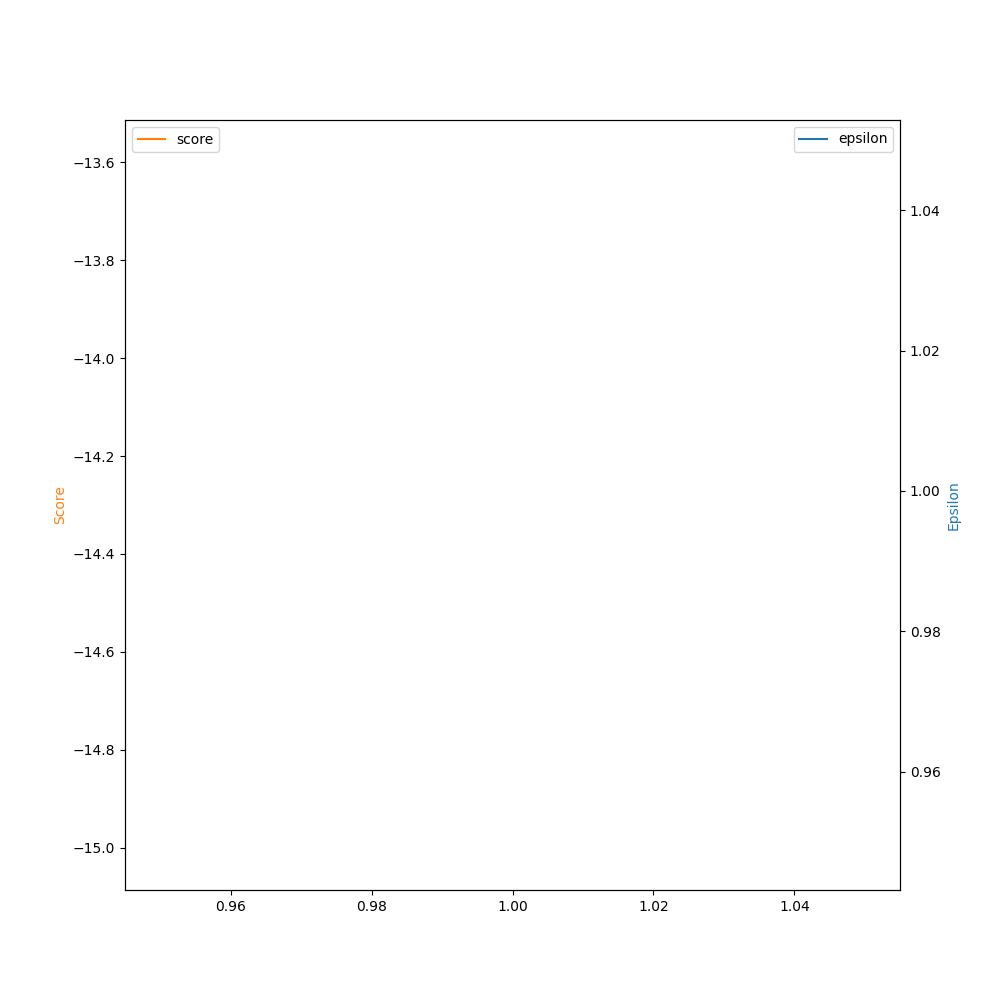
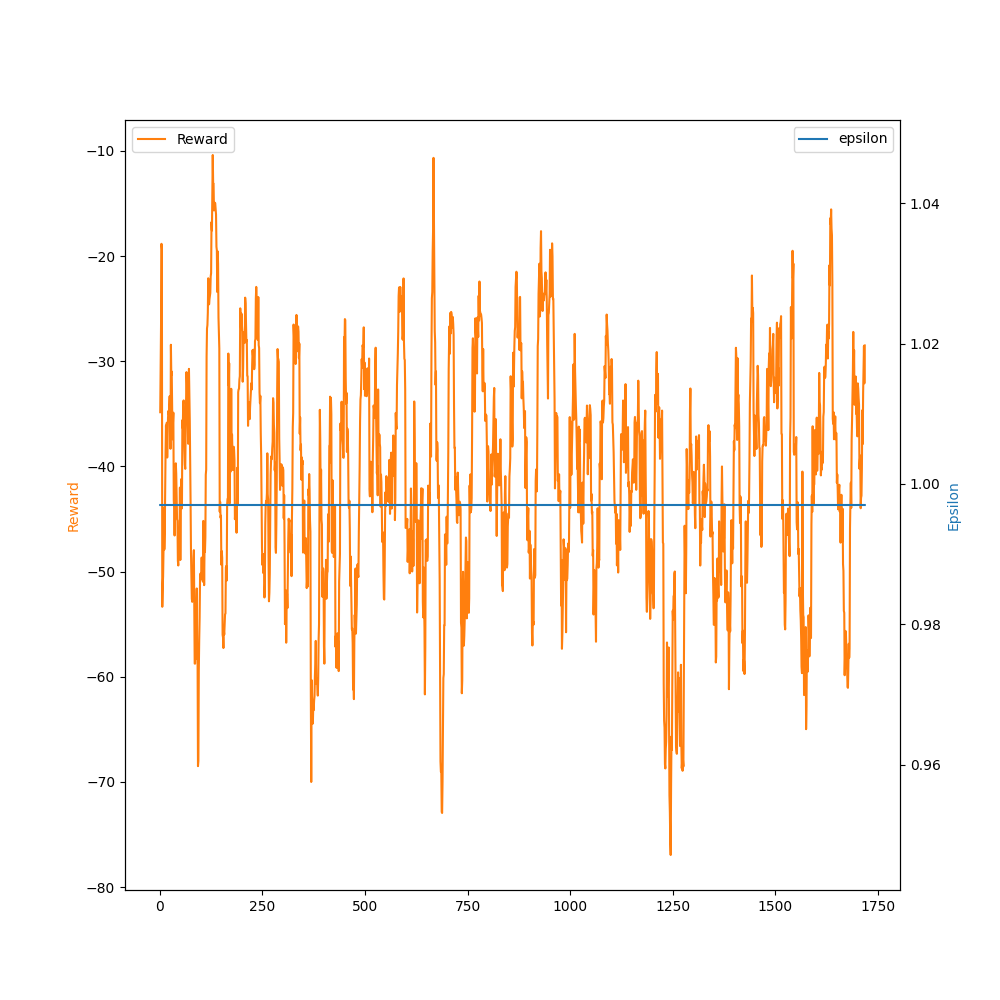
ugh its worse now

diff --git a/Agent/agent.py b/Agent/agent.py
@@ -12,68 +12,51 @@ class DQN(nn.Module):
     def __init__(self, state_size,action_size):
         super(DQN, self).__init__()
         self.device = T.device("cuda" if T.cuda.is_available() else "cpu")
-        
         self.layer1 = nn.Linear(state_size, 32)
-        # 128 out to 32
         self.layer2 = nn.Linear(32, 64)
         self.layer3 = nn.Linear(64, 16)
-        # add softmax
         self.layer4 = nn.Linear(16, action_size)
 
-    
     def forward(self, x):
         x=x.float()
-        
         x=x.to(self.device)
-        
         x = F.relu(self.layer1(x))
         x = F.relu(self.layer2(x))
         x = F.relu(self.layer3(x))
-        # x = F.softmax(self.layer4(x))
-        # add softmax for output
         return self.layer4(x)
-        # return x
-
-
 
  
 class Agent:
     def __init__(self,state_size,action_size) -> None:
         self.state_size = state_size
         self.action_size = action_size
-        
-        self.memory= deque(maxlen=2000)
-        
+        self.memory= deque(maxlen=20000)
         self.gamma = 0.95
-        self.epsilon = .998
-        self.epsilon_max = .998
+        self.epsilon = .997
+        self.epsilon_max = .997
         self.decay = 0.995
-        self.epsilon_min=0.01
+        self.epsilon_min=0.05
         self.learning_rate=0.001
+        
         self.device = T.device("cuda" if T.cuda.is_available() else "cpu")
-        
         self.policy_net = DQN(self.state_size,self.action_size).to(self.device)
-        # print(self.policy_net)
-        # self.target_net = DQN(self.state_size,self.action_size).to(self.device)
-        
-             
+            
     def remember(self,state,action,reward,next_state,done):
         self.memory.append((state,action,reward,next_state,done))
 
     def act(self,state):
         rando=np.random.rand()
         if  rando < self.epsilon:
-            # print(self.epsilon)
             act=np.random.randint(0,high=self.action_size-1)
             return act
-        act_values = self.policy_net(state)
-        # q-val
-        act=T.argmax(act_values)
-        return act
+        else:
+            act_values = self.policy_net(state)
+            act=T.argmax(act_values)
+            return act
 
 
     def replay(self,batch_size):
-        T.cuda.empty_cache()
+        # T.cuda.empty_cache()
         minibatch=random.sample(self.memory,batch_size)
         
         for state,action,reward,new_state,done in minibatch:
@@ -88,16 +71,18 @@ class Agent:
                 #get estimated rewards for next step
                 est=self.policy_net(new_state).to(self.device)#rename these
                 # replace estimated reward for action with reward plus gamma version of the estimate
-                adjusted_reward = (reward + self.gamma * T.argmax(est))# max not argmax
-                # update estimated actin reward 
-                est[action]=adjusted_reward
+                adjusted_reward = (reward + self.gamma * T.max(est))# max not argmax
+                # update estimated act in reward 
+                adjusted_est=est.detach().clone()
+                adjusted_est[action]=adjusted_reward
                 
-                est=est.float()
+                adjusted_est=adjusted_est.float()
                 # get the current policy ----- use label 
                 policy=self.policy_net(state).to(self.device)
                 # update with actual
-                policy[action]=adjusted_reward
-                t=policy
+                updated_policy=policy.detach().clone()
+                updated_policy[action]=adjusted_reward
+                t=updated_policy
                 t=t.float()
                 
             else:
@@ -109,13 +94,14 @@ class Agent:
                 reward=reward.to(self.device)
                 policy=self.policy_net(state).to(self.device)
                 # so update the policy with the actual reward
-                policy[action]=reward
-                t=policy
+                updated_policy=policy.detach().clone()
+                updated_policy[action]=reward
+                t=updated_policy
                 t=t.float()
                
              
             
-            # confirm this is how to train in pytorch
+            
             # self.loss =  nn.MSELoss()
             # self.loss = nn.CrossEntropyLoss()
             # self.loss = nn.BCEWithLogitsLoss()
@@ -129,14 +115,10 @@ class Agent:
             output=self.loss(est,t)
             
             self.optimizer.zero_grad()
-            output.backward()
+            output.backward(retain_graph=True)
             self.optimizer.step()
             
-            T.cuda.empty_cache()
-            
-            params = list(self.policy_net.parameters())
-            # print(len(params))
-            # print(params[0].size())
+            # T.cuda.empty_cache()
     
     
     def epsilon_decay(self):   
@@ -147,11 +129,12 @@ class Agent:
     def epsilon_decay_2(self,episode,episodes):   
         if self.epsilon > self.epsilon_min:
             
-            if (episode > (5/10 * episodes) ):           
+            if (episode > (4/10 * episodes) ):           
                 self.epsilon *= self.decay
             
             else:
-                self.epsilon= self.epsilon_max-1.01**(10*episode-((5.4/10 * episodes)*10))
-                
+                self.epsilon= self.epsilon_max-1.01**(10*episode-((4.4/10 * episodes)*10))
+        else:
+            self.epsilon=self.epsilon       
         pass
     

diff --git a/Env/env.py b/Env/env.py
@@ -28,11 +28,9 @@ class Basic():
     CONNECTION_LABEL = 0
 
     def __init__(self, net_file: str,
-                 route_file: str,
-                 use_gui: bool = False,
-                 steps_per_episode: int = 5000,
+                 route_file: str,gui
                  ) -> None:
-        self.steps_per_episode = steps_per_episode
+        self.steps_per_episode = 2000
         self.episode_count = 0
         self.episode_step = 0
         self.action = 0
@@ -50,7 +48,7 @@ class Basic():
         self._net = net_file
         self._route = route_file
 
-        self.use_gui = use_gui
+        self.use_gui = gui
         self.speed = None
         self.render_mode = None
 
@@ -62,19 +60,22 @@ class Basic():
 
     def reset(self):
 
-        if self.use_gui or self.render_mode is not None:
+        if self.use_gui :
             self._sumo_binary = sumolib.checkBinary("sumo-gui")
             sumo_cmd = [
             "sumo-gui",
             "-d "+"5",
+            
             "-c",
+            
             "Nets/3x3.sumocfg", "--start", "--quit-on-end", "--no-step-log", "--no-warnings", "--no-duration-log",]
 
         else:
             self._sumo_binary = sumolib.checkBinary("sumo")
             sumo_cmd = [
-            "sumo-gui",
-            "-d "+"5",
+            "sumo",
+            # "-d "+"5",
+            
             "-c",
             "Nets/3x3.sumocfg", "--start", "--quit-on-end", "--no-step-log", "--no-warnings", "--no-duration-log",]
 
@@ -161,7 +162,7 @@ class Basic():
             self.reward += -.5
         if self.new_distance < self.old_distance:
 
-            self.reward += .6
+            self.reward += .85
 
         self.vehicle.set_destination(action)
         self.reward += -.7
@@ -182,9 +183,11 @@ class Basic():
         if self.vedge == self.pedge:
             self.reward += 10
             done = True
-        if self.steps > self.steps_per_episode:
-            self.reward += -10
-            done = True
+        # if self.steps > self.steps_per_episode:
+        #     self.reward += -10
+        #     done = True
+        #     self.sumo.close()
+            
 
         state = np.array([])
         state = np.append(state, self.vehicle_lane_index)

diff --git a/test.py b/test.py
@@ -7,10 +7,10 @@ from Util.utility import Utility
 from Agent.agent import Agent
 
 
-EPISODES=1000
+EPISODES=5000
 STEPS=3000
 batch_size=32
-env = Basic("Nets/3x3.net.xml","Nets/S3x3.rou.xml",False,STEPS)
+env = Basic("Nets/3x3.net.xml","Nets/S3x3.rou.xml",True)
 agent = Agent(4,3)
 util=Utility()
 
@@ -22,7 +22,9 @@ for episode in range(EPISODES):
     step=0
     agent_step=0
     episode_reward=0
-    env.render()
+    
+    # fix render
+    # env.render('human')
     while not done:
              
              if not env.no_choice:
@@ -33,22 +35,29 @@ for episode in range(EPISODES):
                 agent.remember(state,action,new_reward,next_state,done)
                 state=next_state
                 episode_reward+=new_reward
+                if (len(agent.memory)> batch_size) and (agent_step % batch_size == 0):
+                        agent.replay(batch_size)
+                
              else:
                  env.nullstep()
             
-             if (len(agent.memory)> batch_size) and (step % batch_size == 0):
-                        agent.replay(batch_size)
+             
              step+=1
              
-             
+    # if (len(agent.memory)> batch_size) :
+    #                     agent.replay(batch_size)         
     
-    agent.epsilon_decay_2(episode,EPISODES)         
+    agent.epsilon_decay_2(episode,EPISODES)   
+    
+          
     r = float(episode_reward)   
     rewards.append(r)
     eps_history.append(agent.epsilon)
-    avg_reward = np.mean(rewards[-100:])         
-    print('---------episode: ', episode,'reward: %.3f' % r,
-            ' average reward %.3f' % avg_reward  ,
+    # avg_reward = np.mean(rewards[-100:])
+    avg_reward = np.mean(rewards)   
+          
+    print('EP: ', episode,'Reward: %.3f' % r,
+            ' Average Reward %.3f' % avg_reward  ,
             'epsilon %.5f' % agent.epsilon," **** step: ",step,"*** Agent steps: ", agent_step)
     x = [i+1 for i in range(len(rewards))]
     filename = 'sumo-agent.png'

diff --git a/Util/utility.py b/Util/utility.py
@@ -64,9 +64,7 @@ class Utility:
                     dir_now = conn.getDirection()
                     out_dict[current_edge_id][dir_now] = current_out_edge.getID()
 
-        return [ out_dict, index_dict, edge_list]
-    
-    
+        return [ out_dict, index_dict, edge_list] 
     
     def plotLearning(self,x, scores, epsilons, filename,lines=None):
         N = len(scores)
@@ -76,8 +74,8 @@ class Utility:
             
         
         fig,ax1=plt.subplots(1,figsize=(10,10))
-        ax1.plot(x, running_avg, color="C1" ,label="score")
-        ax1.set_ylabel("Score",color="C1")
+        ax1.plot(x, running_avg, color="C1" ,label="Reward")
+        ax1.set_ylabel("Reward",color="C1")
         ax1.legend(loc="upper left")
         axa=ax1.twinx()
         axa.plot(x, epsilons, color="C0",label="epsilon")
